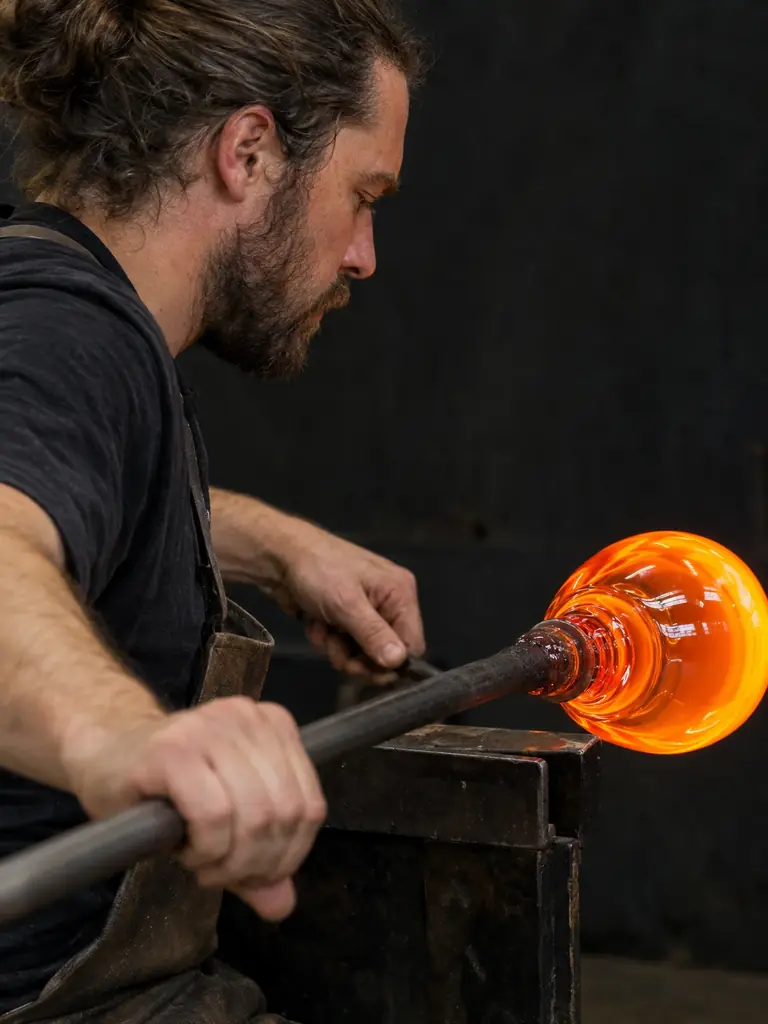
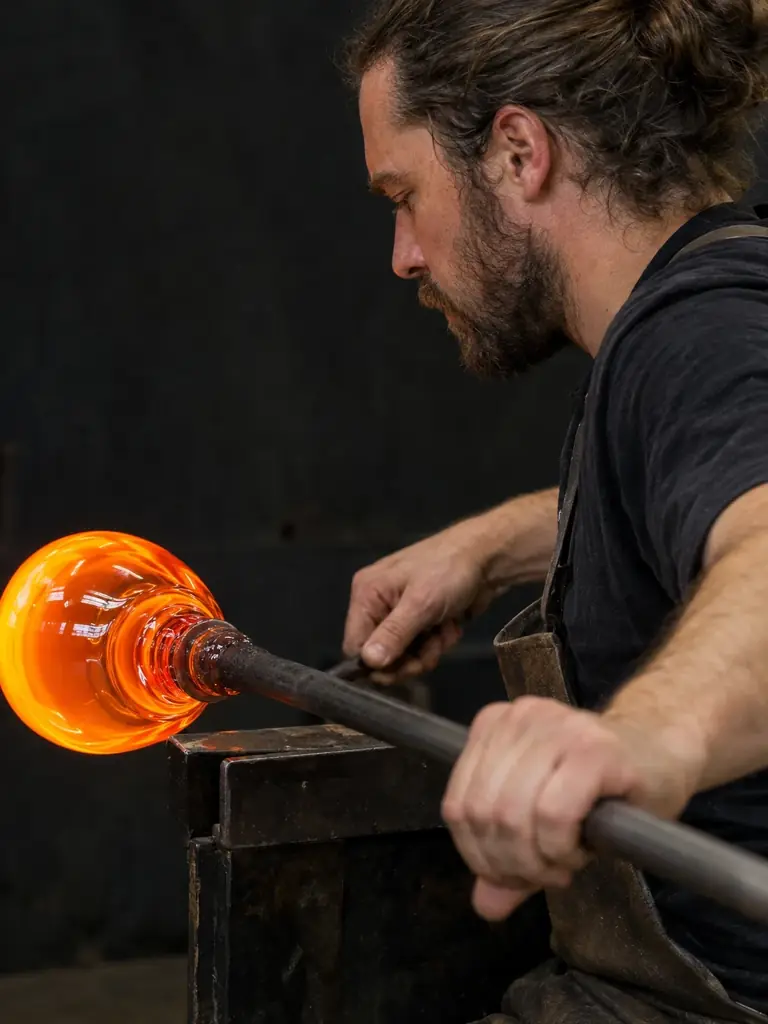
Art: nine turned-away people pictures mirrored so the 24 kept face about half each way (creator, 2026-10-30)
milliner, apple-ladder, mosaic-artist, dog-groomer, pier-fishing, glassblower,
surf-lifesaver, watering-garden, carrot-harvest: master flipped in place, full and
board copies re-exported, "mirrored": true in the plan. Of the 24, 12 now face
left, 11 right, the dog walker straight away. Skipped where a mirror shows: the fly
cast, the golf swing, the camera, the lantern-maker's kimono and brush, the
mapmaker's pen and coastlines, the rope's lay, the lasso and the reins.

pictures.py flip <id>... does it (free) and keeps the mark; gen leaves a
<id>.prompt-drawn marker so process mirrors a fresh draw of a mirrored picture.
Same ids, files and shapes; the catalogue is unchanged.

diff --git a/tools/art/pictures.py b/tools/art/pictures.py
@@ -5,6 +5,8 @@
     python tools/art/pictures.py repaint <raw-dir> <id>... redraw a postcard from its own master in its plan
                                                           entry's "paint" style (gemforge edit, BILLS per id)
     python tools/art/pictures.py process <raw-dir> <id>... raw PNG -> tools/art/masters + public/pictures (+ thumb)
+    python tools/art/pictures.py flip <id>...             mirror a picture left to right in place (master and copies),
+                                                          and mark it "mirrored" in the plan (free)
     python tools/art/pictures.py export [<id>...]         masters -> public/pictures + thumbs, at the card aspect
     python tools/art/pictures.py thumbs [<id>...]         Albums-screen thumbs from the masters (default: all)
     python tools/art/pictures.py boards [<id>...]         the board's light copies from the masters (default: all)
@@ -114,6 +116,9 @@ def cmd_gen(raw, ids):
                 "--quality", "high", "--out", str(raw), "--name", pid, "--flat", "--no-wait", "--json"]
         r = subprocess.run(args, capture_output=True, text=True, encoding="utf-8")
         print(pid, r.returncode, (r.stdout or r.stderr).strip().replace("\n", " ")[:300])
+        if e.get("mirrored"):  # drawn from the prompt it faces the other way: process flips it (see cmd_flip)
+            (Path(raw) / f"{pid}.prompt-drawn").touch()
+            print(f"  {pid} is mirrored in the plan: process will mirror this draw")
 
 
 # Postcards are always an obviously painted style, never photoreal (creator, 2026-10-28: a generated
@@ -276,11 +281,40 @@ def cmd_process(raw, ids):
             print(pid, "no raw file in", raw)
             continue
         im = crop_to(Image.open(src).convert("RGB"), *size_of(e))
+        if e.get("mirrored") and (Path(raw) / f"{pid}.prompt-drawn").exists():  # a fresh draw of a mirrored picture
+            im = im.transpose(Image.FLIP_LEFT_RIGHT)
         im.save(master_path(pid), "WEBP", quality=90, method=6)
         out = export(e)
         if e.get("paint") and e["medium"] != PAINT[e["paint"]][0]:  # a repainted postcard takes its style's medium
             plan_set(pid, "medium", PAINT[e["paint"]][0])
         print(pid, im.size, "->", out.relative_to(ROOT), f"{out.stat().st_size // 1024} KB")
+
+
+# Mirrored pictures (creator, 2026-10-30: nearly all the people sat on the left looking right; flip some to make it
+# about half each way). Only where a mirror can't be told: no lettering, numbers or clock faces, no tool whose
+# handedness reads (a camera's controls, a golf swing, a fly cast), no buttoning, no kimono (left over right is the
+# living's way), no known asymmetric object. The plan marks each one "mirrored": true. restyle, repaint and a masked
+# edit start from the master, so they keep the flip; a fresh gen draws the prompt's way round, so gen leaves a
+# <id>.prompt-drawn marker beside the raw and process mirrors that draw. flip toggles the master and the mark together.
+def cmd_flip(ids):
+    import re
+    p = plan()
+    for pid in ids:
+        e = entry(p, pid)
+        m = master_path(pid)
+        Image.open(m).convert("RGB").transpose(Image.FLIP_LEFT_RIGHT).save(m, "WEBP", quality=90, method=6)
+        lines = PLAN.read_text(encoding="utf-8").split("\n")
+        k = next(k for k, line in enumerate(lines) if f'"id": "{pid}"' in line)
+        if e.get("mirrored"):  # flipped back: the mark goes
+            lines[k] = lines[k].replace(', "mirrored": true', "")
+        else:
+            lines[k] = lines[k].replace(f'"id": "{pid}",', f'"id": "{pid}", "mirrored": true,', 1)
+        if "cropX" in e:  # the framing window mirrors too
+            lines[k], n = re.subn(r'"cropX": [0-9.]+', f'"cropX": {round(1 - e["cropX"], 3)}', lines[k], count=1)
+            assert n == 1, (pid, "cropX is not on the id line")
+        PLAN.write_text("\n".join(lines), encoding="utf-8")
+        out = export(entry(plan(), pid))
+        print(pid, "mirrored" if not e.get("mirrored") else "back the right way", "->", out.relative_to(ROOT))
 
 
 def plan_set(pid, key, value):
@@ -690,6 +724,8 @@ if __name__ == "__main__":
         cmd_restyle(rest[0], rest[1:])
     elif c == "process":
         cmd_process(rest[0], rest[1:])
+    elif c == "flip":
+        cmd_flip(rest)
     elif c == "export":
         cmd_export(rest)
     elif c == "thumbs":

diff --git a/docs/picture-direction.md b/docs/picture-direction.md
@@ -132,6 +132,12 @@ top-left and torso up.
 - **A healthy mix of all races** (creator, 2026-10-30, after the new-library pilot): the
   earlier push for many more people of colour, particularly African Americans, has done its
   work, so new people pictures mix every background, each true to the style's culture and period.
+- **About half face each way** (creator, 2026-10-30: nearly every kept turned-away picture sat
+  on the left looking right): say in the prompt which side the person is on and which way they
+  look, and vary it. A finished picture can be mirrored (`pictures.py flip`, marked
+  `"mirrored"` in the plan) only where a mirror can't be told: no lettering, numbers or clock
+  faces, no tool whose handedness reads (a camera, a golf swing, a fly cast), no buttoning, no
+  kimono (left over right is the living's way).
 - **The setting gives every card something of its own:** a face, hands, an object, a
   part of the place. No card is only skin, only sky or one even texture.
 - **What still has to go is the AI look:** the same tilted head and posed camera smile
